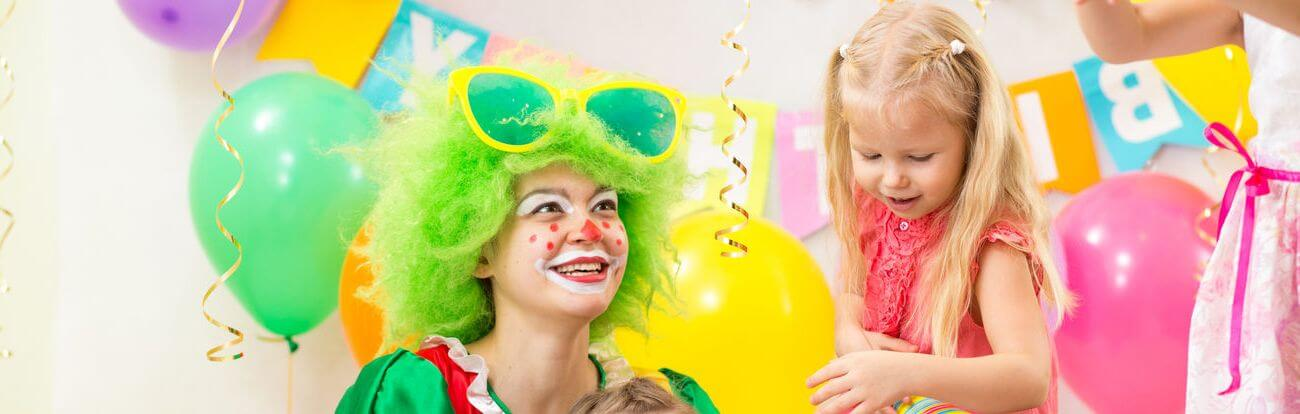
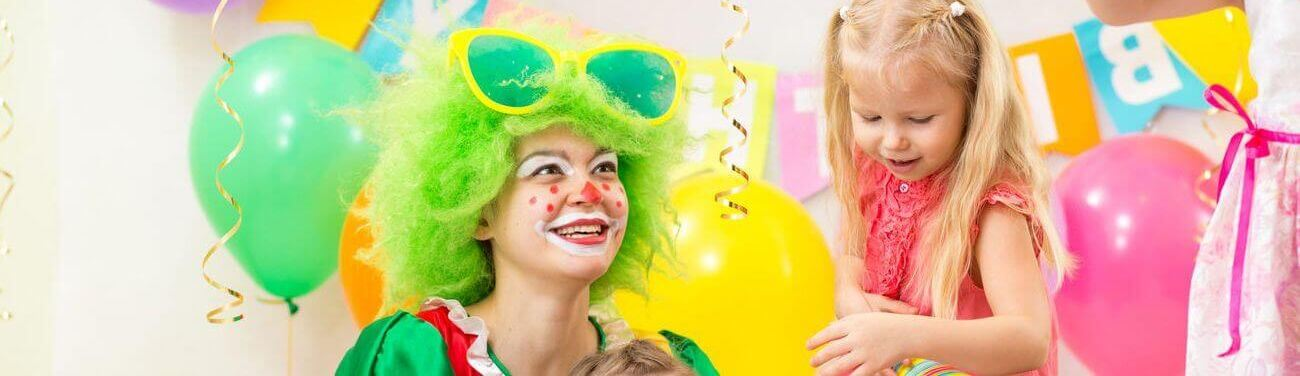
Rework header

diff --git a/app/src/blocks/header.scss b/app/src/blocks/header.scss
@@ -121,7 +121,7 @@ $name: header;
 		overflow: hidden;
 
 		@include screen-sm() {
-			min-height: 230px;
+			min-height: 300px;
 			display: flex;
 			justify-content: center;
 		}
